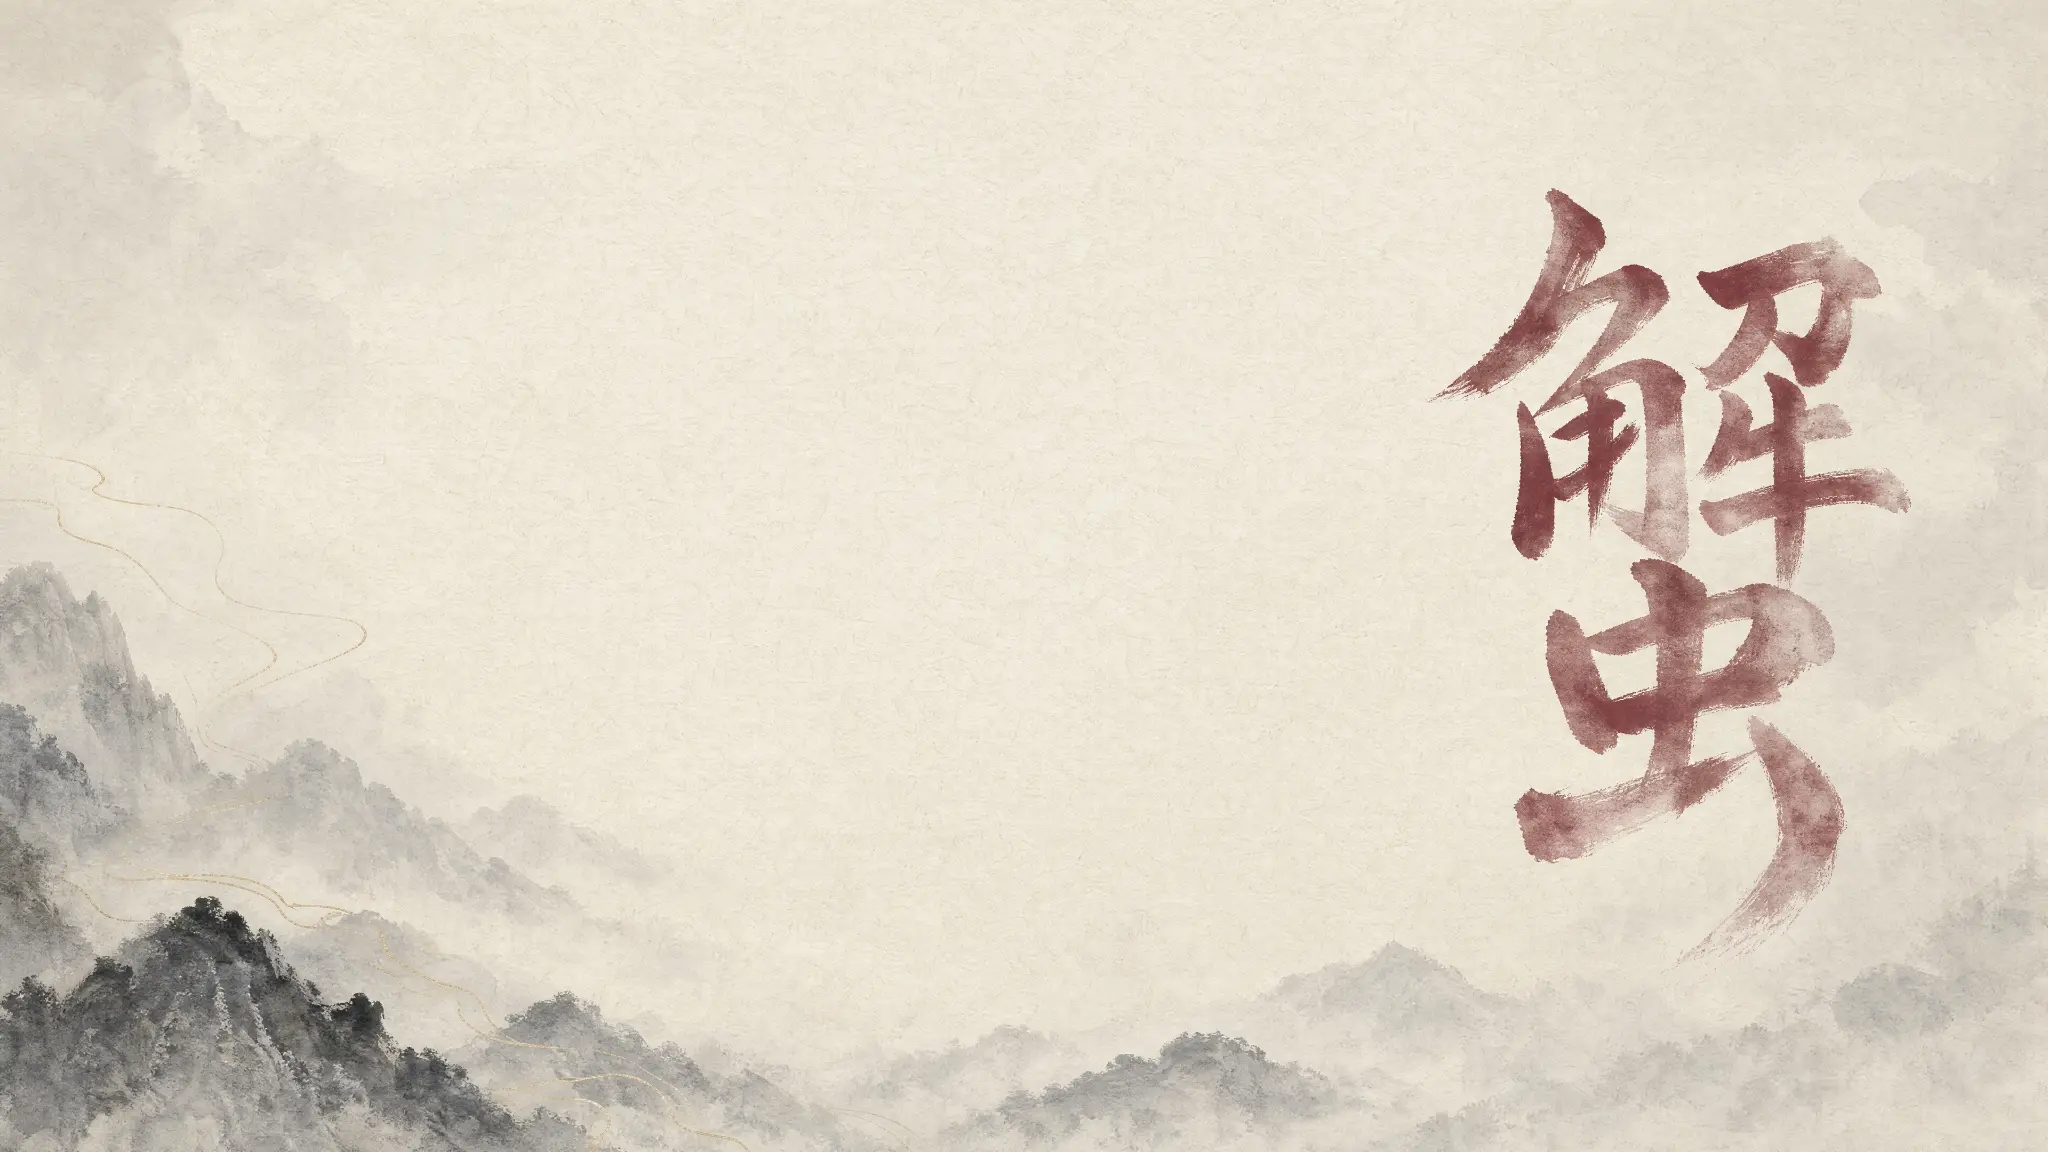
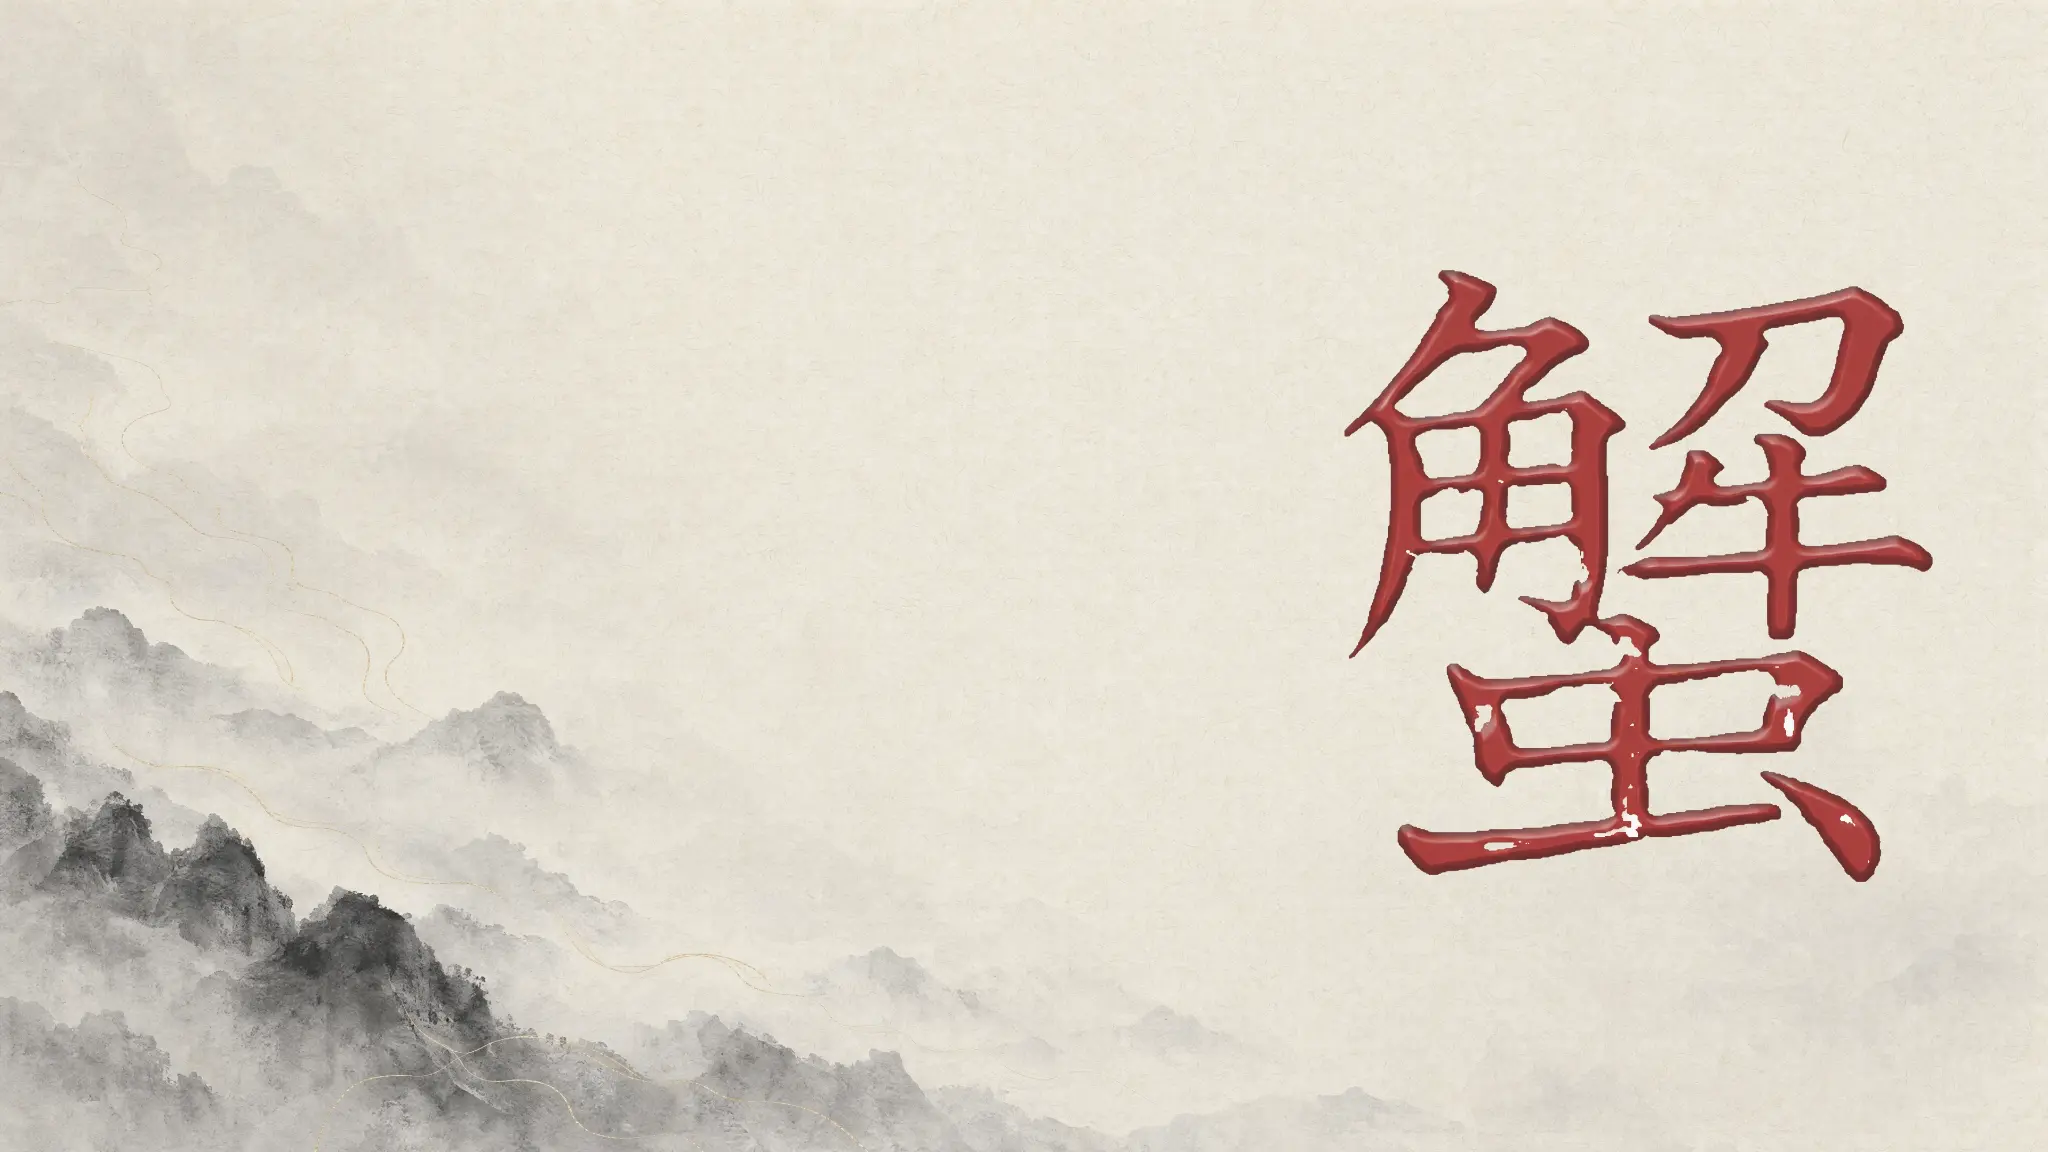
Replace responsive theme backgrounds with WebP assets

diff --git a/plan.md b/plan.md
@@ -231,3 +231,8 @@ Se agrega la variante panorámica suministrada para `min-width: 1024px` únicame
 ## Fondos del modo oscuro
 
 Se incorporan los fondos oscuros suministrados: la variante vertical se aplica en mobile y la panorámica desde `min-width: 1024px`, únicamente bajo `html[data-theme="dark"]`. Los fondos claros permanecen separados por tema y breakpoint, y el logo continúa compartido por ambos modos.
+
+
+## Reemplazo de fondos WEBP por tema y breakpoint
+
+Se reemplazan in-place los cuatro assets públicos conservando sus rutas actuales: `kani-fondo-claro-desktop.webp`, `kani-fondo-claro-mobile.webp`, `kani-fondo-oscuro-desktop.webp` y `kani-fondo-oscuro-mobile.webp`. El CSS existente mantiene la selección por `data-theme` y media query, por lo que claro/oscuro y desktop/mobile quedan desacoplados sin modificar layout, componentes ni lógica de negocio. La validación se limita a compilación, rutas de assets y revisión visual en Preview; no se cambian datos, autenticación, reservas, Supabase ni Resend.

diff --git a/TODO.md b/TODO.md
@@ -188,3 +188,11 @@ En modo oscuro, mobile utiliza el fondo vertical suministrado y desktop desde 10
 - Ocultar del flujo público los horarios `UNAVAILABLE` y los horarios ya ocupados, sin crear ni modificar datos.
 - En mobile, mantener dos cápsulas por fila, altura uniforme, hora, intervalo y estado legibles, sin superposición ni scroll horizontal.
 - No modificar servicios, precios, duraciones, reservas, credenciales ni reglas ajenas a este ajuste.
+
+
+## Reemplazo de fondos WEBP
+
+- Reemplazar los cuatro fondos anteriores por los nuevos WEBP suministrados: claro desktop, claro mobile, oscuro desktop y oscuro mobile.
+- Mantener la selección correcta por modo claro/oscuro y breakpoint desktop/mobile usando las rutas existentes.
+- No modificar logo, layout, navegación, flujo de reservas, panel administrativo, Supabase, autenticación, reservas, disponibilidad, notificaciones ni Resend.
+- Validar que los cuatro assets se sirvan en Preview y que no haya regresiones visuales ni desbordamiento.
